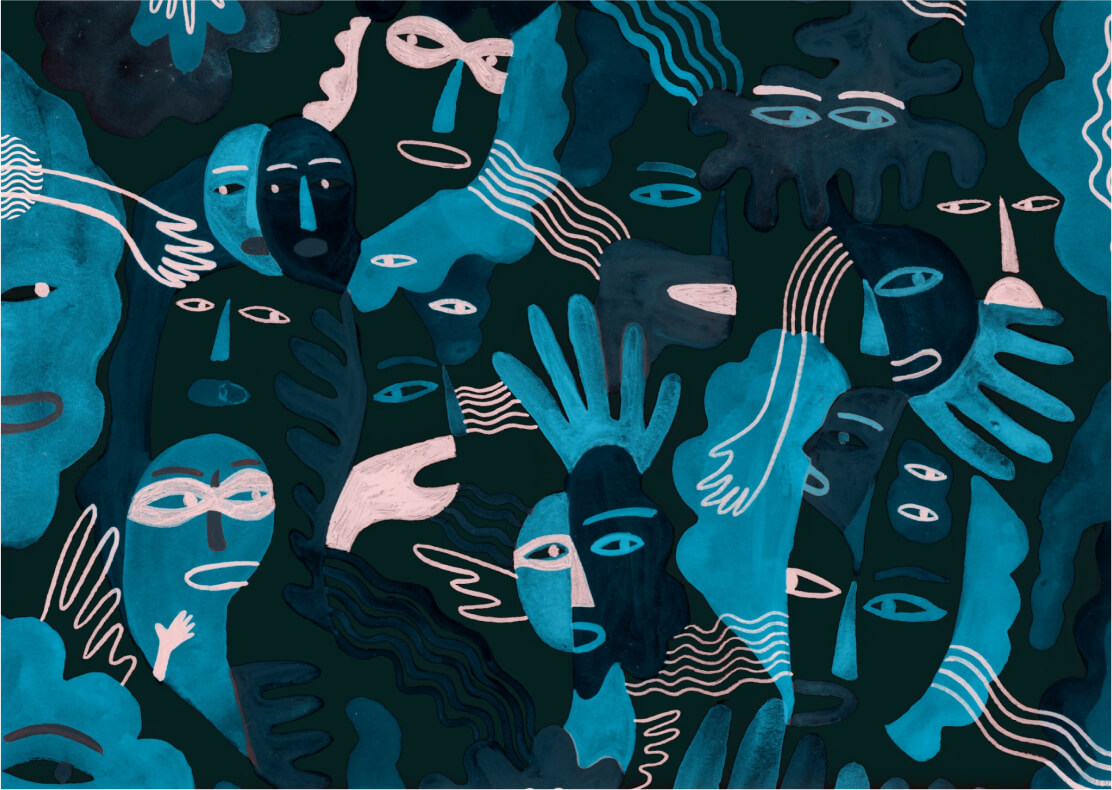
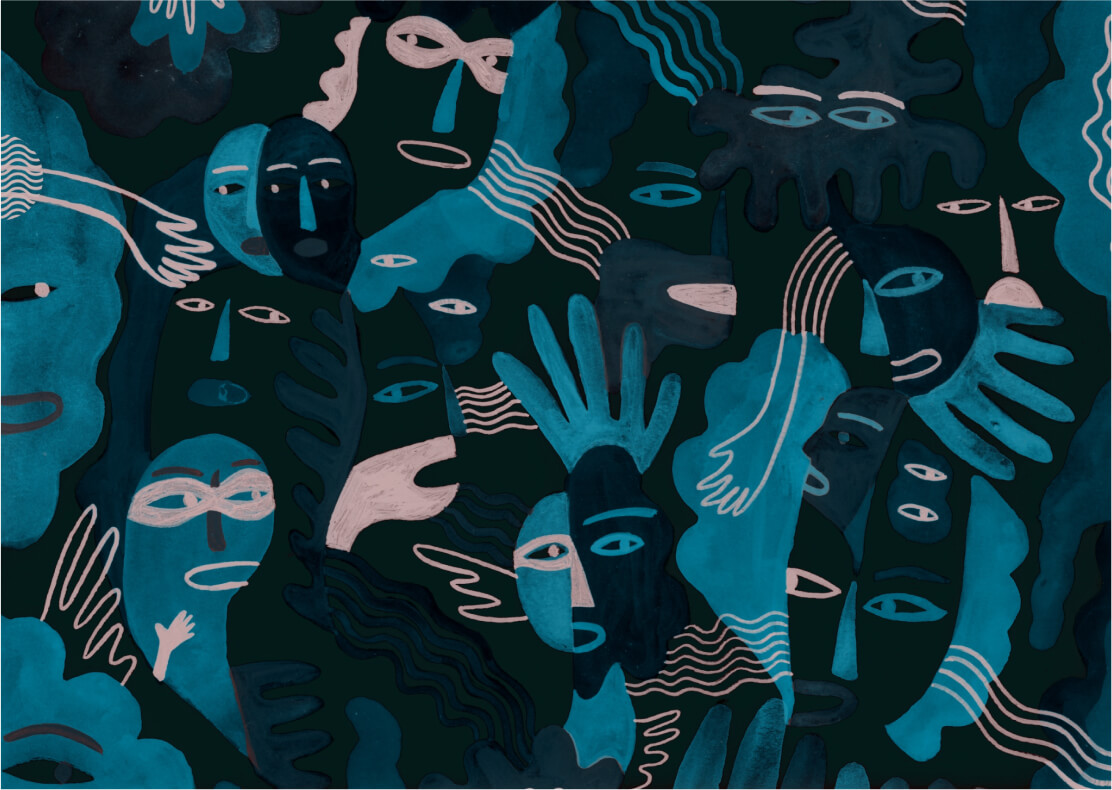
added fade to get involved hero background, more chill animation

diff --git a/getinvolved/index.php b/getinvolved/index.php
@@ -131,7 +131,7 @@ $(window).mousemove(function(event) {
   
   // This will move kaleidoscope
   scope.angleTarget = factorx;
-  scope.zoomTarget  = 1.0 + 0.3 * factory;
+  scope.zoomTarget  = 0.85 + 0.1 * factory;
 });
 
 
